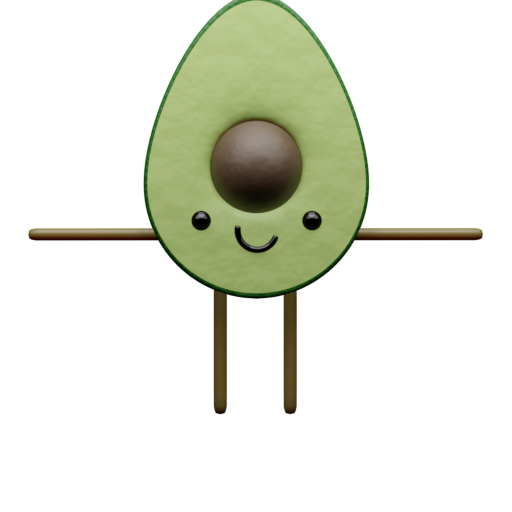
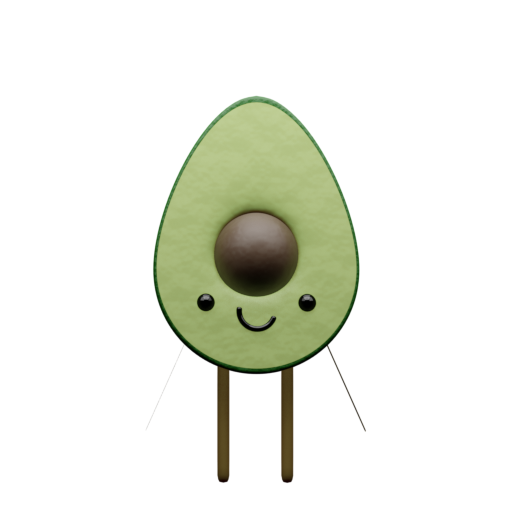
fixes

Changed region(s): [[0.0312, 0.0, 0.9688, 0.9375], [0.6875, 0.7812, 0.7188, 0.8438], [0.6562, 0.7188, 0.6875, 0.7812]]

diff --git a/src/components/AvocadoMascot3D.tsx b/src/components/AvocadoMascot3D.tsx
@@ -23,8 +23,8 @@ type AvocadoAnimation = "idle" | "walk" | "talk" | "happy" | "sad" | "sleep" | "
 
 const MASCOT_EVENT = "forbiddens:dragon-mascot";
 const MODEL_URL = "/mascot/avocado/avocado_mascot.glb";
-const MASCOT_WIDTH = 188;
-const MASCOT_HEIGHT = 172;
+const MASCOT_WIDTH = 226;
+const MASCOT_HEIGHT = 236;
 const GROUND_GAP = 0;
 
 const eventAnimation: Record<DragonMascotEventType, AvocadoAnimation> = {
@@ -70,6 +70,8 @@ export default function AvocadoMascot3D({ gameName, className }: AvocadoMascot3D
   const stageRef = useRef<HTMLDivElement>(null);
   const canvasRef = useRef<HTMLCanvasElement>(null);
   const mixerRef = useRef<THREE.AnimationMixer | null>(null);
+  const modelRef = useRef<THREE.Group | null>(null);
+  const modelBaseScaleRef = useRef(1);
   const actionsRef = useRef<Record<string, THREE.AnimationAction>>({});
   const activeActionRef = useRef<THREE.AnimationAction | null>(null);
   const rendererRef = useRef<THREE.WebGLRenderer | null>(null);
@@ -79,6 +81,7 @@ export default function AvocadoMascot3D({ gameName, className }: AvocadoMascot3D
   const typingTimerRef = useRef<number | null>(null);
   const audioContextRef = useRef<AudioContext | null>(null);
   const dragRef = useRef({ pointerId: -1, offsetX: 0, offsetY: 0 });
+  const animationNameRef = useRef<AvocadoAnimation>("idle");
 
   const [position, setPosition] = useState<MascotPosition>({ x: 0, y: 0 });
   const [ready, setReady] = useState(false);
@@ -88,6 +91,10 @@ export default function AvocadoMascot3D({ gameName, className }: AvocadoMascot3D
   const [message, setMessage] = useState("");
   const [typedMessage, setTypedMessage] = useState("");
   const [animationName, setAnimationName] = useState<AvocadoAnimation>("idle");
+
+  useEffect(() => {
+    animationNameRef.current = animationName;
+  }, [animationName]);
 
   const title = useMemo(() => {
     const trimmed = String(gameName || "").trim();
@@ -178,9 +185,9 @@ export default function AvocadoMascot3D({ gameName, className }: AvocadoMascot3D
     rendererRef.current = renderer;
 
     const scene = new THREE.Scene();
-    const camera = new THREE.OrthographicCamera(-1.65, 1.65, 1.62, -1.62, 0.1, 100);
-    camera.position.set(0, 1.4, 4.7);
-    camera.lookAt(0, 0.2, 0);
+    const camera = new THREE.OrthographicCamera(-2.05, 2.05, 2.2, -2.2, 0.1, 100);
+    camera.position.set(0, 1.2, 5.2);
+    camera.lookAt(0, 0.05, 0);
 
     scene.add(new THREE.HemisphereLight(0xffffff, 0x604040, 1.95));
     const keyLight = new THREE.DirectionalLight(0xfff4dc, 2.35);
@@ -200,9 +207,12 @@ export default function AvocadoMascot3D({ gameName, className }: AvocadoMascot3D
       const size = box.getSize(new THREE.Vector3());
       const maxAxis = Math.max(size.x, size.y, size.z) || 1;
       model.position.sub(center);
-      model.scale.setScalar(2.78 / maxAxis);
+      const baseScale = 2.28 / maxAxis;
+      model.scale.setScalar(baseScale);
+      modelBaseScaleRef.current = baseScale;
       model.rotation.y = -0.05;
       scene.add(model);
+      modelRef.current = model;
 
       const mixer = new THREE.AnimationMixer(model);
       mixerRef.current = mixer;
@@ -222,7 +232,32 @@ export default function AvocadoMascot3D({ gameName, className }: AvocadoMascot3D
 
     const clock = new THREE.Clock();
     const render = () => {
-      mixerRef.current?.update(clock.getDelta());
+      const delta = clock.getDelta();
+      const elapsed = clock.elapsedTime;
+      mixerRef.current?.update(delta);
+      const model = modelRef.current;
+      if (model) {
+        const baseScale = modelBaseScaleRef.current || 1;
+        const state = animationNameRef.current;
+        const isDrag = state === "drag";
+        const isHappy = state === "happy";
+        const isTalk = state === "talk";
+        const isSleep = state === "sleep";
+        const isWalk = state === "walk";
+        model.position.y = isSleep
+          ? -0.2 + Math.sin(elapsed * 1.8) * 0.018
+          : Math.sin(elapsed * (isTalk ? 8.5 : isWalk ? 9.2 : 2.2)) * (isTalk ? 0.08 : isWalk ? 0.1 : 0.045) + (isDrag ? 0.16 : 0);
+        model.rotation.z = isSleep
+          ? -0.42
+          : Math.sin(elapsed * (isTalk ? 7.5 : isHappy ? 6.8 : isWalk ? 8 : 1.8)) * (isTalk ? 0.08 : isHappy ? 0.12 : isWalk ? 0.1 : 0.035);
+        model.rotation.y = -0.05 + Math.sin(elapsed * 1.3) * 0.045;
+        const squash = isTalk ? Math.sin(elapsed * 13) * 0.035 : isHappy ? Math.sin(elapsed * 9) * 0.045 : 0;
+        model.scale.set(
+          baseScale * (1 - squash * 0.45),
+          baseScale * (1 + squash),
+          baseScale,
+        );
+      }
       renderer.render(scene, camera);
       animationFrameRef.current = window.requestAnimationFrame(render);
     };
@@ -242,6 +277,7 @@ export default function AvocadoMascot3D({ gameName, className }: AvocadoMascot3D
       renderer.dispose();
       rendererRef.current = null;
       mixerRef.current = null;
+      modelRef.current = null;
       actionsRef.current = {};
       activeActionRef.current = null;
     };

diff --git a/desktop-launcher/src-tauri/src/lib.rs b/desktop-launcher/src-tauri/src/lib.rs
@@ -1482,8 +1482,27 @@ fn screen_layout(app: &AppHandle) -> Option<(i32, i32, u32, u32, u32, u32)> {
     let monitor_center_y = position.y + (size.height / 2) as i32;
     let (x, y, width, height) = windows_work_area_for_point(monitor_center_x, monitor_center_y)
         .unwrap_or((position.x, position.y, size.width, size.height));
-    let minimum_companion_width = 340.min(width);
-    let companion_width = (width / 5).max(minimum_companion_width);
+    let desired_companion_width = if width < 1100 {
+        width.saturating_mul(36) / 100
+    } else {
+        width.saturating_mul(28) / 100
+    };
+    let minimum_companion_width = if width < 900 { 300 } else { 380 }.min(width);
+    let maximum_companion_width = if width < 1100 {
+        width.saturating_mul(45) / 100
+    } else {
+        520
+    }
+    .min(width);
+    let minimum_emulator_width = if width >= 720 { 420 } else { width / 2 };
+    let companion_limit = width
+        .saturating_sub(minimum_emulator_width)
+        .max((width / 3).min(width));
+    let companion_width = desired_companion_width
+        .max(minimum_companion_width)
+        .min(maximum_companion_width)
+        .min(companion_limit)
+        .max(260.min(width));
     let emulator_width = width.saturating_sub(companion_width);
     Some((
         x,
@@ -1514,6 +1533,7 @@ fn enter_native_companion_layout(app: &AppHandle) -> Result<(), String> {
     window
         .set_size(PhysicalSize::new(companion_width, screen_height))
         .map_err(|error| error.to_string())?;
+    let _ = window.set_always_on_top(true);
     let _ = window.unminimize();
     let _ = window.set_focus();
     Ok(())
@@ -1523,6 +1543,7 @@ fn restore_launcher_layout(app: &AppHandle) {
     let Some(window) = app.get_webview_window("main") else {
         return;
     };
+    let _ = window.set_always_on_top(false);
     let _ = window.set_min_size(Some(PhysicalSize::new(1024, 650)));
     let _ = window.unminimize();
     let _ = window.maximize();

diff --git a/scripts/create-avocado-mascot.py b/scripts/create-avocado-mascot.py
@@ -165,15 +165,29 @@ floor = bpy.data.objects.get("Plane")
 if floor is not None:
     bpy.data.objects.remove(floor, do_unlink=True)
 
+limbs = bpy.data.objects.get("Cylinder.001")
+if limbs is not None:
+    inverse = limbs.matrix_world.inverted()
+    for vertex in limbs.data.vertices:
+        world = limbs.matrix_world @ vertex.co
+        side = 1 if world.x >= 0 else -1
+        distance = abs(world.x) - 0.62
+        if distance > 0 and world.z > 1.22:
+            lowered = min(distance, 1.35)
+            world.x = side * (0.62 + lowered * 0.32)
+            world.z = 1.46 - lowered * 0.72
+            vertex.co = inverse @ world
+    limbs.data.update()
+
 camera = bpy.data.objects.get("Camera") or bpy.data.objects.new("Camera", bpy.data.cameras.new("Camera"))
 if not camera.users_collection:
     bpy.context.scene.collection.objects.link(camera)
 camera.location = (0, -6.2, -0.45)
-target = Vector((0, 0.12, -0.55))
+target = Vector((0, 0.12, 0.2))
 direction = target - Vector(camera.location)
 camera.rotation_euler = direction.to_track_quat("-Z", "Y").to_euler()
 camera.data.type = "ORTHO"
-camera.data.ortho_scale = 4.25
+camera.data.ortho_scale = 4.65
 bpy.context.scene.camera = camera
 
 for light in [obj for obj in bpy.data.objects if obj.type == "LIGHT"]:
